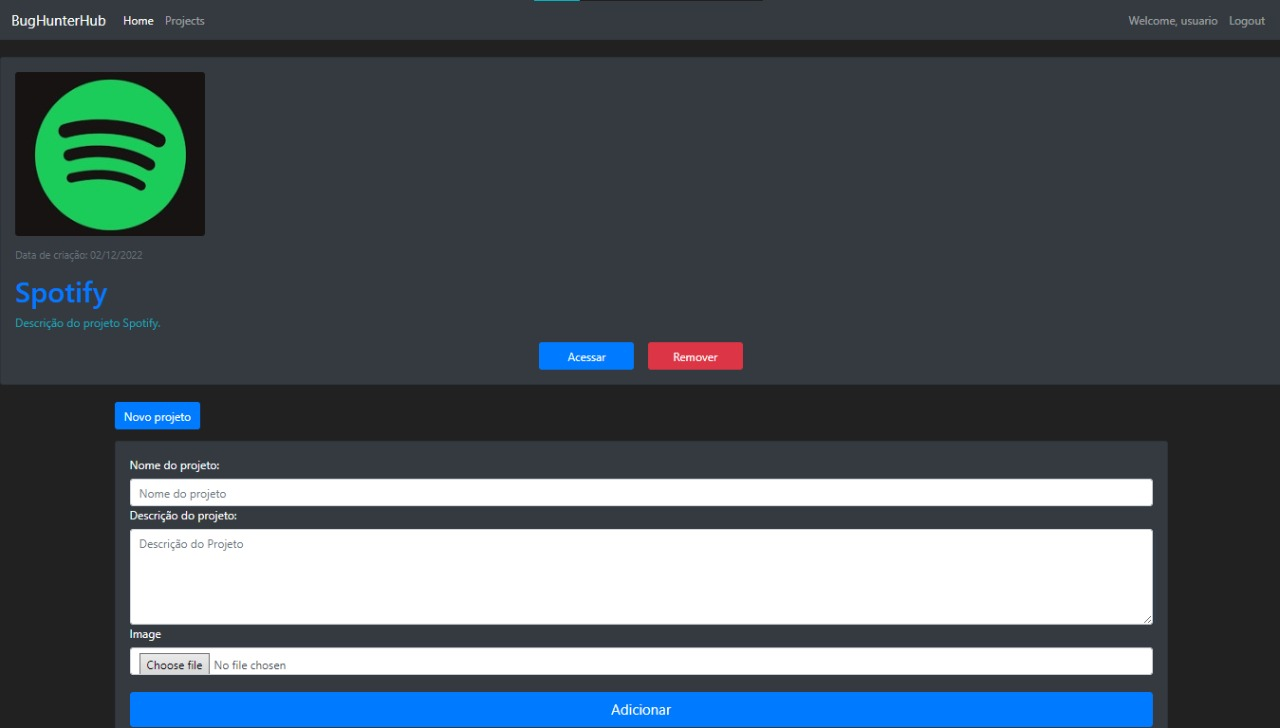
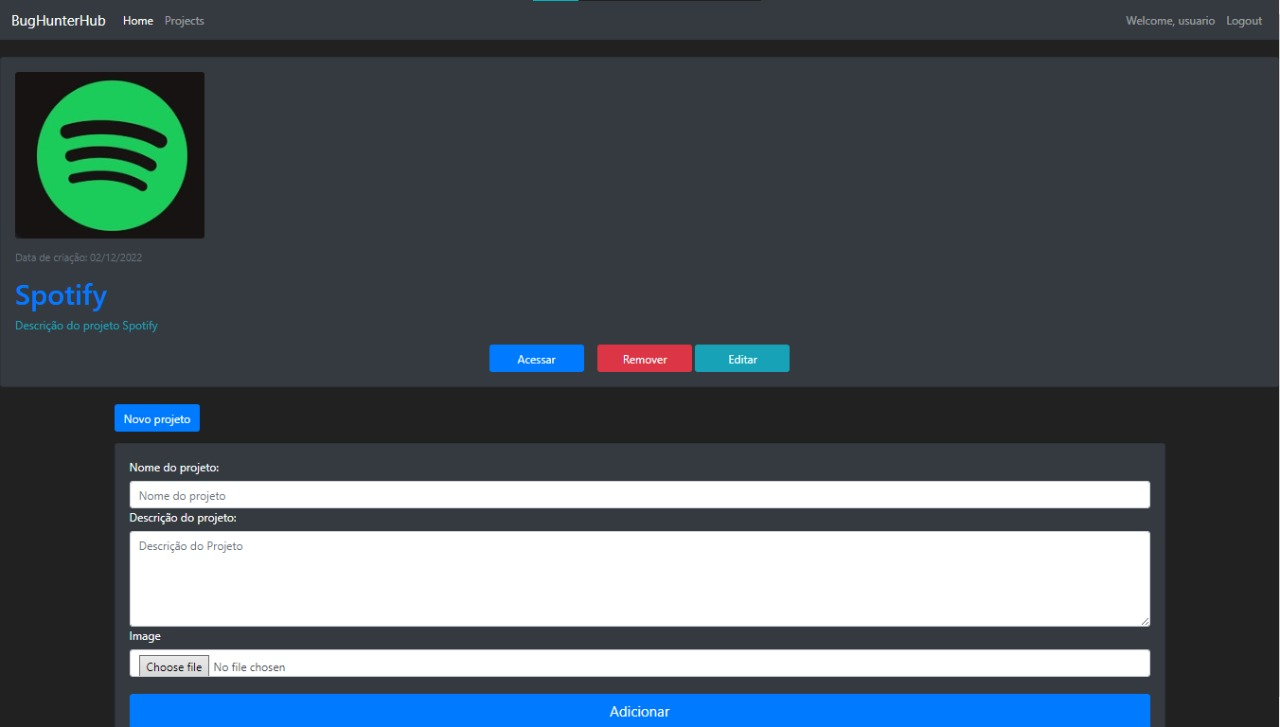
tutorial de utilização atualizado

diff --git a/README.md b/README.md
@@ -124,4 +124,8 @@ Agora poderemos criar novos projetos e acessar projetos existentes:
 
 Acessando o projeto abriremos sua lista de diretórios, onde poderemos adicionar novos diretórios e editá-los. Assim é capaz de atribuir informação e marcadores a respeito do serviço e do estado da atual análise de cada diretório:
 
-![DIRECTORIES_LIST](images/directories_list.jpeg)
+![DOMAIN_LIST](images/domain_list.jpeg)
+
+Clicando em editar:
+
+![DOMAIN_LIST_EDIT](images/domain_list_edit.jpeg)
